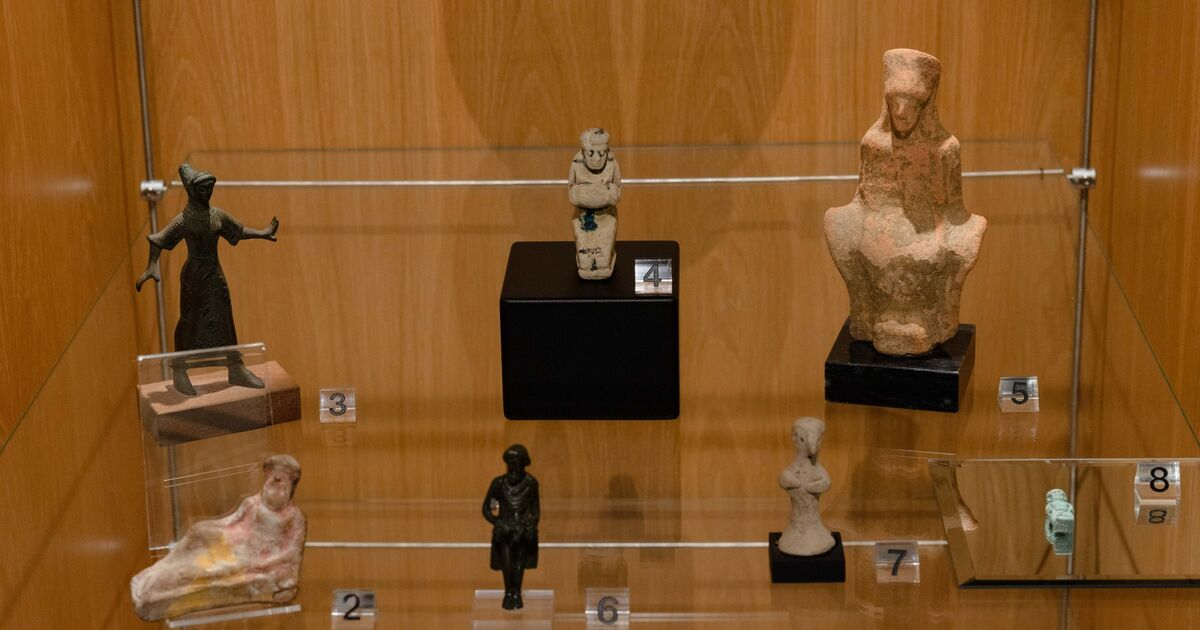
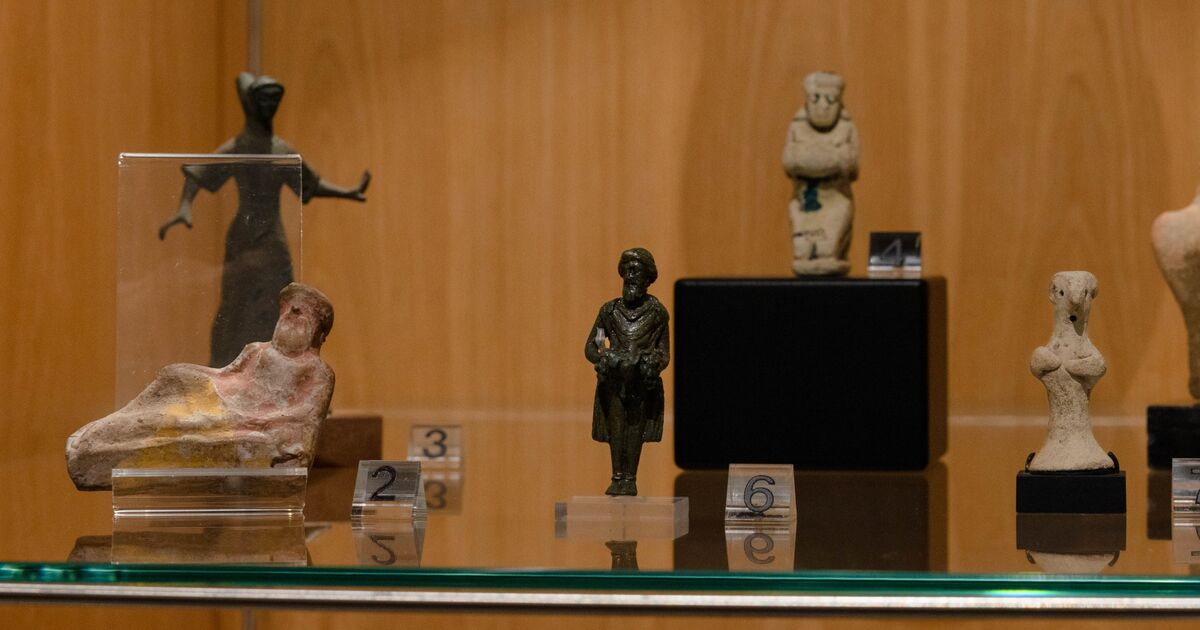
Apply Hannah's social graph titles/descriptions, Middle Shelf OG photo, and Bottom Shelf secondary overview photo

diff --git a/_includes/head.html b/_includes/head.html
@@ -1,14 +1,33 @@
 <head>
   <meta charset="utf-8">
   <meta name="viewport" content="width=device-width, initial-scale=1">
-  {%- if page.permalink == '/' -%}
-  <title>{{ site.title | escape }}</title>
-  {%- elsif page.title -%}
-  <title>{{ page.title | escape }} | Disability Heritage</title>
-  {%- else -%}
-  <title>{{ site.title | escape }}</title>
-  {%- endif -%}
-  {%- seo title=false -%}
+  {%- assign meta_title = page.seo_title | default: page.title | default: site.title -%}
+  {%- assign meta_desc = page.description | default: site.description | strip_html | normalize_whitespace -%}
+  {%- assign canonical_url = page.url | replace: 'index.html', '' | absolute_url -%}
+  {%- assign og_img_path = page.image.path | default: '/assets/images/og/home.jpg' -%}
+  {%- assign og_img_url = og_img_path | absolute_url -%}
+  {%- assign og_img_w = page.image.width | default: 1200 -%}
+  {%- assign og_img_h = page.image.height | default: 630 -%}
+  {%- assign og_img_alt = page.image.alt | default: site.title -%}
+  <title>{{ meta_title | escape }}</title>
+  <meta name="description" content="{{ meta_desc | escape }}">
+  <meta name="author" content="{{ site.author.name | escape }}">
+  <link rel="canonical" href="{{ canonical_url }}">
+  <meta property="og:title" content="{{ meta_title | escape }}">
+  <meta property="og:description" content="{{ meta_desc | escape }}">
+  <meta property="og:type" content="website">
+  <meta property="og:url" content="{{ canonical_url }}">
+  <meta property="og:locale" content="en_AU">
+  <meta property="og:site_name" content="{{ site.title | escape }}">
+  <meta property="og:image" content="{{ og_img_url }}">
+  <meta property="og:image:width" content="{{ og_img_w }}">
+  <meta property="og:image:height" content="{{ og_img_h }}">
+  <meta property="og:image:alt" content="{{ og_img_alt | escape }}">
+  <meta name="twitter:card" content="summary_large_image">
+  <meta name="twitter:title" content="{{ meta_title | escape }}">
+  <meta name="twitter:description" content="{{ meta_desc | escape }}">
+  <meta name="twitter:image" content="{{ og_img_url }}">
+  <meta name="twitter:image:alt" content="{{ og_img_alt | escape }}">
   <meta name="theme-color" content="#f7f2ea" media="(prefers-color-scheme: light)">
   <meta name="theme-color" content="#171412" media="(prefers-color-scheme: dark)">
   <link rel="icon" href="{{ '/favicon.ico' | relative_url }}" sizes="any">

diff --git a/tests/e2e/content-gov.spec.js b/tests/e2e/content-gov.spec.js
@@ -217,9 +217,9 @@ test.describe('Outcome 3C: Curation, Accessibility Page, 404 & Repository Govern
       await expect(footer.locator('a[href="https://www.linkedin.com/in/hannah-vogel-216039149/"]')).toHaveCount(1);
       await expect(footer.locator('a[href="https://www.instagram.com/hannah_the_archaeologist/"]')).toHaveCount(1);
 
-      // Analytics script + ethics gate attribute
+      // Analytics script + custom events attribute
       await expect(page.locator('script[src="https://nocookieanalytics.com/latest.js"]')).toHaveCount(1);
-      await expect(page.locator('html')).toHaveAttribute('data-analytics-custom-events', 'false');
+      await expect(page.locator('html')).toHaveAttribute('data-analytics-custom-events', 'true');
 
       // Zero square brackets or scar tissue in rendered <main> and <footer>
       const mainText = await page.locator('main#main').innerText();

diff --git a/pages/shelves/middle.md b/pages/shelves/middle.md
@@ -1,6 +1,7 @@
 ---
 layout: shelf
 title: Middle Shelf
+seo_title: "Middle Shelf Disability Heritage Museum Exhibition"
 permalink: /shelves/middle/
 shelf: middle
 shelf_index: 2
@@ -9,10 +10,10 @@ prev_url: /shelves/top/
 prev_label: Top Shelf
 next_url: /shelves/bottom/
 next_label: Bottom Shelf
-description: "Middle Shelf of Disability Heritage: Archaeology with Difference — seven figurines and amulets challenging the ideal of a bodily norm."
+description: "Overview of the middle shelf of the Disability Heritage: Archaeology with Difference exhibition"
 image:
   path: /assets/images/og/middle.jpg
   width: 1200
   height: 630
-  alt: "Middle shelf of the Disability Heritage display case showing seven ceramic, bronze, terracotta, and faience figurines and amulets."
+  alt: "Objects 2, 3, 4, 6 and 7 on the middle shelf. A ceramic reclining figure (2), a bronze dancer replica (3), a ceramic figure of a musician (4), a bronze figure of the deity Priapus (6) and a terracotta figurine (7)."
 ---

diff --git a/pages/shelves/bottom.md b/pages/shelves/bottom.md
@@ -1,6 +1,7 @@
 ---
 layout: shelf
 title: Bottom Shelf
+seo_title: "Bottom Shelf Disability Heritage Museum Exhibition"
 permalink: /shelves/bottom/
 shelf: bottom
 shelf_index: 3
@@ -9,7 +10,7 @@ prev_url: /shelves/middle/
 prev_label: Middle Shelf
 next_url: /curation/
 next_label: Curation & Acknowledgements
-description: "Bottom Shelf of Disability Heritage: Archaeology with Difference — three historical feeding vessels as evidence of community and care."
+description: "Overview of the bottom shelf of the Disability Heritage: Archaeology with Difference exhibition"
 image:
   path: /assets/images/og/bottom.jpg
   width: 1200

diff --git a/pages/shelves/top.md b/pages/shelves/top.md
@@ -1,6 +1,7 @@
 ---
 layout: shelf
 title: Top Shelf
+seo_title: "Top Shelf Disability Heritage Museum Exhibition"
 permalink: /shelves/top/
 shelf: top
 shelf_index: 1
@@ -9,7 +10,7 @@ prev_url: /
 prev_label: Home
 next_url: /shelves/middle/
 next_label: Middle Shelf
-description: "Top Shelf of Disability Heritage: Archaeology with Difference — an ancient Greek pelike depicting a staff used as a mobility aid."
+description: "Overview of the top shelf of the Disability Heritage: Archaeology with Difference exhibition"
 image:
   path: /assets/images/og/top.jpg
   width: 1200

diff --git a/pages/accessibility.md b/pages/accessibility.md
@@ -1,8 +1,9 @@
 ---
 layout: page
 title: Accessibility
+seo_title: "Accessibility Page Disability Heritage Museum Exhibition"
 permalink: /accessibility/
-description: Website accessibility features, customisable display controls, keyboard and screen reader tools, and on-campus visitor access at the Gale History Museum.
+description: "The accessibility design in the museum exhibition and website for Disability Heritage: Archaeology with Difference"
 prev_url: /curation/
 prev_label: Curation & Acknowledgements
 next_url: /

diff --git a/pages/curation.md b/pages/curation.md
@@ -1,9 +1,10 @@
 ---
 layout: page
 title: Curation & Acknowledgements
+seo_title: "Curation Disability Heritage Museum Exhibition"
 nav_title: Curation
 permalink: /curation/
-description: "Curator biography, acknowledgements, funding bodies, website team, and software and asset licences for Disability Heritage."
+description: "Author information and acknowledgments by Hannah Vogel. Curator of Disability Heritage Museum Exhibition"
 prev_url: /shelves/bottom/
 prev_label: Bottom Shelf
 next_url: /accessibility/

diff --git a/pages/index.md b/pages/index.md
@@ -1,6 +1,8 @@
 ---
 layout: home
 title: "Disability Heritage: Archaeology with Difference"
+seo_title: "Home Disability Heritage Museum Exhibition"
+description: "Museum exhibition Disability Heritage: Archaeology with Difference, curated by Hannah Vogel"
 nav_title: Home
 permalink: /
 display_image:
